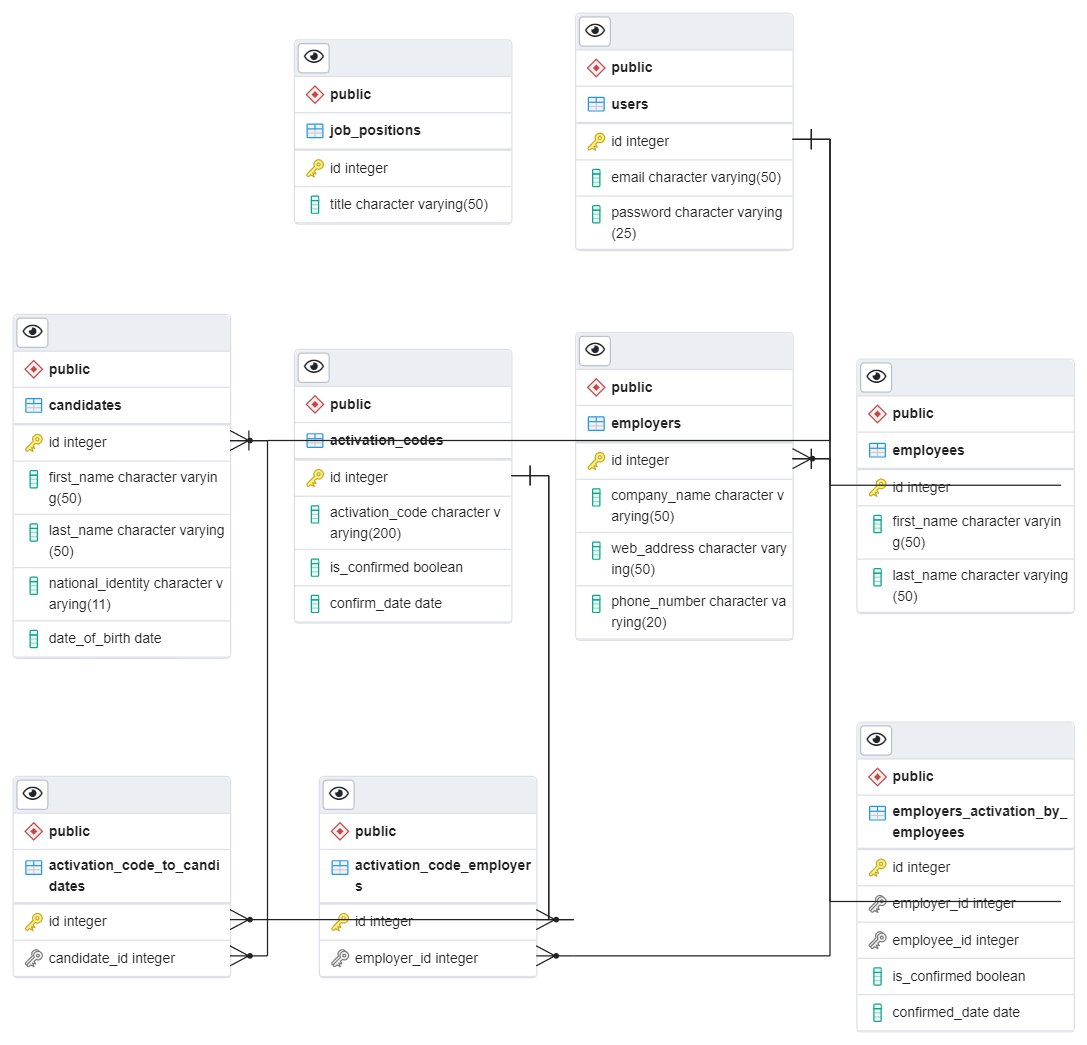
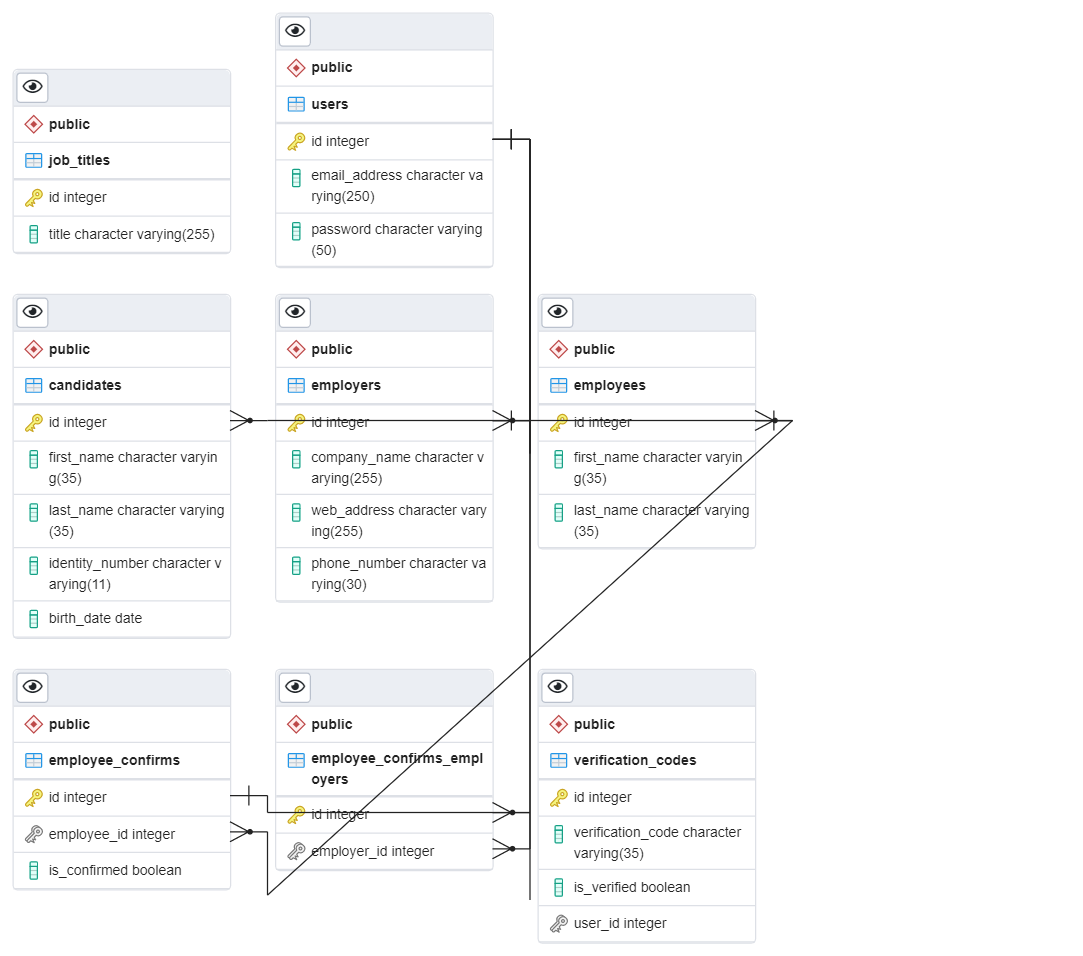
refactored

diff --git a/hrms/src/main/java/kodlamaio/hrms/api/controllers/JobTitlesController.java b/hrms/src/main/java/kodlamaio/hrms/api/controllers/JobTitlesController.java
@@ -9,30 +9,30 @@ import org.springframework.web.bind.annotation.RequestBody;
 import org.springframework.web.bind.annotation.RequestMapping;
 import org.springframework.web.bind.annotation.RestController;
 
-import kodlamaio.hrms.business.abstracts.JobPositionService;
+import kodlamaio.hrms.business.abstracts.JobTitleService;
 import kodlamaio.hrms.core.utilities.results.DataResult;
 import kodlamaio.hrms.core.utilities.results.Result;
-import kodlamaio.hrms.entities.concretes.JobPosition;
+import kodlamaio.hrms.entities.concretes.JobTitle;
 
 @RestController
-@RequestMapping("/api/jobpositions")
-public class JobPositionsController {
+@RequestMapping("/api/jobtitles")
+public class JobTitlesController {
 	
-	private JobPositionService jobPositionService;
+	private JobTitleService jobTitleService;
 
 	@Autowired
-	public JobPositionsController(JobPositionService jobPositionService) {
+	public JobTitlesController(JobTitleService jobTitleService) {
 		super();
-		this.jobPositionService = jobPositionService;
+		this.jobTitleService = jobTitleService;
 	}
 	
 	@GetMapping("/getall")
-	public DataResult<List<JobPosition>> getAll(){
-		return this.jobPositionService.getAll();
+	public DataResult<List<JobTitle>> getAll(){
+		return this.jobTitleService.getAll();
 	}
 	
 	@PostMapping("/add")
-	public Result add(@RequestBody JobPosition jobPosition){
-		return this.jobPositionService.add(jobPosition);
+	public Result add(@RequestBody JobTitle jobTitle){
+		return this.jobTitleService.add(jobTitle);
 	}
 }

diff --git a/hrms/src/main/java/kodlamaio/hrms/business/concretes/JobTitleManager.java b/hrms/src/main/java/kodlamaio/hrms/business/concretes/JobTitleManager.java
@@ -1,0 +1,46 @@
+package kodlamaio.hrms.business.concretes;
+
+import java.util.List;
+
+import org.springframework.beans.factory.annotation.Autowired;
+import org.springframework.stereotype.Service;
+
+import kodlamaio.hrms.business.abstracts.JobTitleService;
+import kodlamaio.hrms.core.utilities.results.DataResult;
+import kodlamaio.hrms.core.utilities.results.ErrorResult;
+import kodlamaio.hrms.core.utilities.results.Result;
+import kodlamaio.hrms.core.utilities.results.SuccessDataResult;
+import kodlamaio.hrms.core.utilities.results.SuccessResult;
+import kodlamaio.hrms.dataAccess.abstracts.JobTitleDao;
+import kodlamaio.hrms.entities.concretes.JobTitle;
+
+
+@Service
+public class JobTitleManager implements JobTitleService{
+
+	@Autowired
+	private JobTitleDao jobTitleDao;
+	
+	public JobTitleManager() {}
+	
+	@Override
+	public DataResult<List<JobTitle>> getAll() {
+		
+		return new SuccessDataResult<List<JobTitle>>(this.jobTitleDao.findAll(),"Job titles listed");
+	}
+
+	@Override
+	public Result add(JobTitle jobTitle) {
+		if (getByTitle(jobTitle.getTitle()).getData() != null) {
+			return new ErrorResult("This title already exists");
+		}
+		this.jobTitleDao.save(jobTitle);
+		return new SuccessResult("Job title added");
+	}
+
+	@Override
+	public DataResult<JobTitle> getByTitle(String title) {
+		return new SuccessDataResult<JobTitle>(this.jobTitleDao.findByTitle(title));
+	}
+
+}

diff --git a/hrms/src/main/java/kodlamaio/hrms/business/concretes/CandidateManager.java b/hrms/src/main/java/kodlamaio/hrms/business/concretes/CandidateManager.java
@@ -28,12 +28,12 @@ public class CandidateManager implements CandidateService{
 	@Override
 	public DataResult<List<Candidate>> getAll() {
 		
-		return new SuccessDataResult<List<Candidate>>(this.candidateDao.findAll(),"Data listed");
+		return new SuccessDataResult<List<Candidate>>(this.candidateDao.findAll(),"Candidates listed");
 	}
 
 	@Override
 	public Result add(Candidate candidate) {
-		if (getByNationalIdentity(candidate.getNationalIdentity()).getData() != null) {
+		if (getByIdentityNumber(candidate.getIdentityNumber()).getData() != null) {
 			return new ErrorResult("This candidate identification number already exists.");
 		}else if (getByEmail(candidate.getEmail()).getData() != null) {
 			return new ErrorResult("This email already exists.");
@@ -44,9 +44,9 @@ public class CandidateManager implements CandidateService{
 	}
 
 	@Override
-	public DataResult<Candidate> getByNationalIdentity(String nationalIdentity) {
+	public DataResult<Candidate> getByIdentityNumber(String identityNumber) {
 		
-		return new SuccessDataResult<>(this.candidateDao.findByNationalIdentity(nationalIdentity));
+		return new SuccessDataResult<>(this.candidateDao.findByIdentityNumber(identityNumber));
 	}
 
 	@Override

diff --git a/hrms/src/main/java/kodlamaio/hrms/entities/concretes/Candidate.java b/hrms/src/main/java/kodlamaio/hrms/entities/concretes/Candidate.java
@@ -11,6 +11,7 @@ import lombok.AllArgsConstructor;
 import lombok.Data;
 import lombok.NoArgsConstructor;
 
+
 @Data
 @Entity
 @NoArgsConstructor
@@ -26,9 +27,9 @@ public class Candidate extends User{
 	@Column(name = "last_name")
 	private String lastName;
 	
-	@Column(name = "national_identity")
-	private String nationalIdentity;
+	@Column(name = "identity_number")
+	private String identityNumber;
 	
-	@Column(name = "date_of_birth")
-	private Date dateOfBirth;
+	@Column(name = "birth_date")
+	private Date birthDate;
 }

diff --git a/hrms/src/main/java/kodlamaio/hrms/business/abstracts/JobTitleService.java b/hrms/src/main/java/kodlamaio/hrms/business/abstracts/JobTitleService.java
@@ -1,0 +1,13 @@
+package kodlamaio.hrms.business.abstracts;
+
+import java.util.List;
+
+import kodlamaio.hrms.core.utilities.results.DataResult;
+import kodlamaio.hrms.core.utilities.results.Result;
+import kodlamaio.hrms.entities.concretes.JobTitle;
+
+public interface JobTitleService {
+	DataResult<List<JobTitle>> getAll();
+	DataResult<JobTitle> getByTitle(String title);
+	Result add(JobTitle jobTitle);
+}

diff --git a/hrms/src/main/java/kodlamaio/hrms/business/abstracts/CandidateService.java b/hrms/src/main/java/kodlamaio/hrms/business/abstracts/CandidateService.java
@@ -9,7 +9,7 @@ import kodlamaio.hrms.entities.concretes.Candidate;
 
 public interface CandidateService {
 	DataResult<List<Candidate>> getAll();
-	DataResult<Candidate> getByNationalIdentity(String nationalIdentity);
+	DataResult<Candidate> getByIdentityNumber(String identityNumber);
 	DataResult<Candidate> getByEmail(String email);
 	Result add(Candidate candidate);
 }

diff --git a/hrms/src/main/java/kodlamaio/hrms/dataAccess/abstracts/CandidateDao.java b/hrms/src/main/java/kodlamaio/hrms/dataAccess/abstracts/CandidateDao.java
@@ -5,6 +5,6 @@ import org.springframework.data.jpa.repository.JpaRepository;
 import kodlamaio.hrms.entities.concretes.Candidate;
 
 public interface CandidateDao extends JpaRepository<Candidate, Integer>{
-	Candidate findByNationalIdentity(String nationalIdentity);
+	Candidate findByIdentityNumber(String identityNumber);
 	Candidate findByEmail(String email);
 }

diff --git a/hrms/src/main/java/kodlamaio/hrms/business/concretes/EmployerManager.java b/hrms/src/main/java/kodlamaio/hrms/business/concretes/EmployerManager.java
@@ -28,7 +28,7 @@ public class EmployerManager implements EmployerService{
 	@Override
 	public DataResult<List<Employer>> getAll() {
 		
-		return new SuccessDataResult<List<Employer>>(this.employerDao.findAll(),"Data listed");
+		return new SuccessDataResult<List<Employer>>(this.employerDao.findAll(),"Employers listed");
 	}
 
 	@Override

diff --git a/hrms/src/main/java/kodlamaio/hrms/business/concretes/UserManager.java b/hrms/src/main/java/kodlamaio/hrms/business/concretes/UserManager.java
@@ -26,7 +26,7 @@ public class UserManager implements UserService{
 	@Override
 	public DataResult<List<User>> getAll() {
 		
-		return new SuccessDataResult<List<User>>(this.userDao.findAll(),"Data listed");
+		return new SuccessDataResult<List<User>>(this.userDao.findAll(),"Users listed");
 	}
 
 

diff --git a/hrms/src/main/java/kodlamaio/hrms/dataAccess/abstracts/JobTitleDao.java b/hrms/src/main/java/kodlamaio/hrms/dataAccess/abstracts/JobTitleDao.java
@@ -1,0 +1,9 @@
+package kodlamaio.hrms.dataAccess.abstracts;
+
+import org.springframework.data.jpa.repository.JpaRepository;
+
+import kodlamaio.hrms.entities.concretes.JobTitle;
+
+public interface JobTitleDao extends JpaRepository<JobTitle, Integer>{
+	 JobTitle findByTitle(String title);
+}

diff --git a/hrms/src/main/java/kodlamaio/hrms/business/abstracts/UserService.java b/hrms/src/main/java/kodlamaio/hrms/business/abstracts/UserService.java
@@ -3,7 +3,6 @@ package kodlamaio.hrms.business.abstracts;
 import java.util.List;
 
 import kodlamaio.hrms.core.utilities.results.DataResult;
-import kodlamaio.hrms.core.utilities.results.Result;
 import kodlamaio.hrms.entities.concretes.User;
 
 public interface UserService {

diff --git a/hrms/src/main/java/kodlamaio/hrms/entities/concretes/JobTitle.java b/hrms/src/main/java/kodlamaio/hrms/entities/concretes/JobTitle.java
@@ -15,8 +15,8 @@ import lombok.NoArgsConstructor;
 @Entity
 @NoArgsConstructor
 @AllArgsConstructor
-@Table(name = "job_positions")
-public class JobPosition {
+@Table(name = "job_titles")
+public class JobTitle {
 	
 	@Id
 	@GeneratedValue(strategy = GenerationType.IDENTITY)
